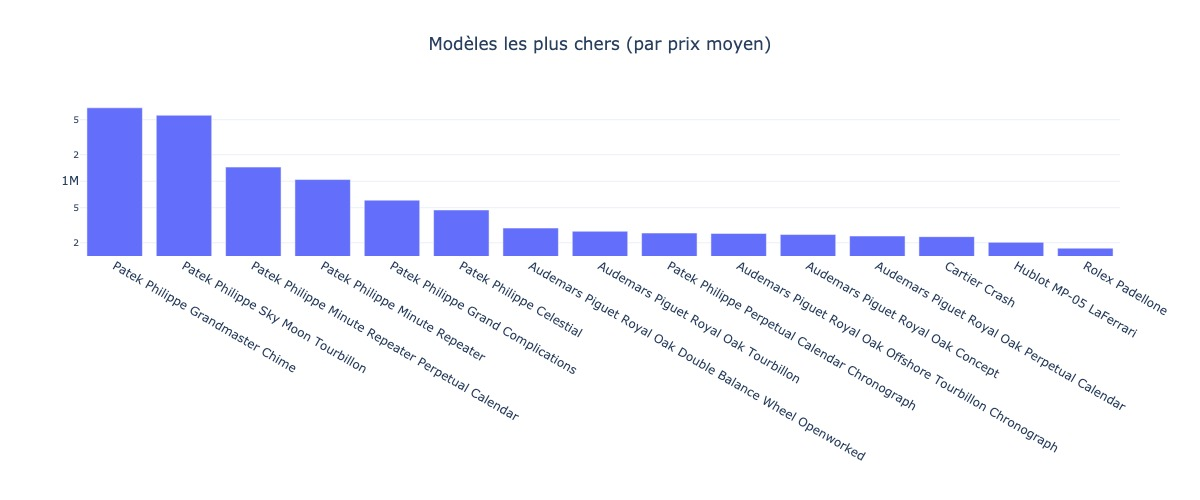
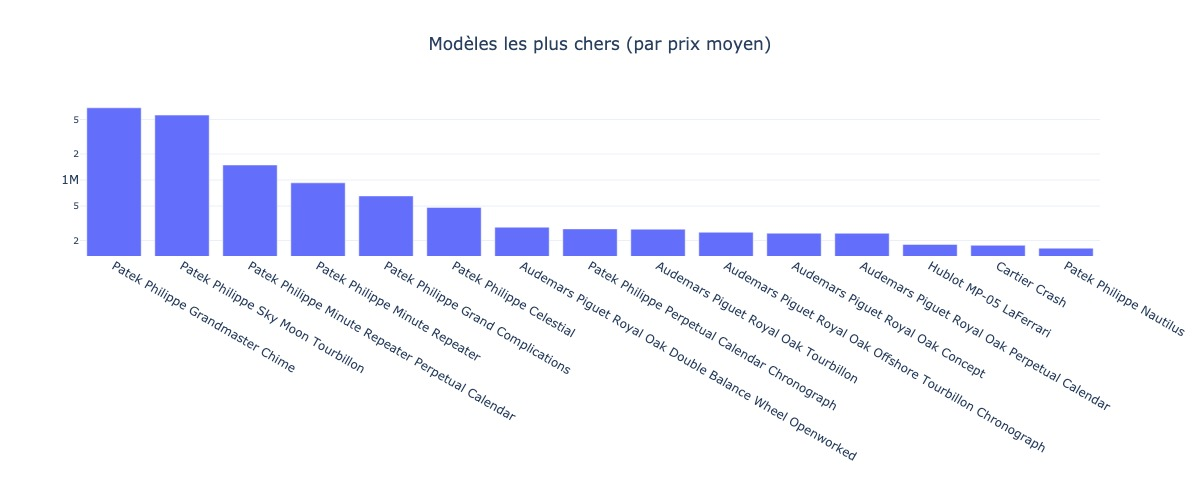
rm analysis from dayly batch

diff --git a/single_analysis.py b/single_analysis.py
@@ -30,10 +30,10 @@ f.write_image("./out/count_per_name.jpeg", format="jpeg")
 
 
 
-price_per_model = data[["name", "prix"]].groupby(by="name").mean().sort_values("prix", ascending=False)
+price_per_model = data[["name", "prix", "brand"]].groupby(by="name").agg({"prix": "mean", "brand": "last"}).sort_values("prix", ascending=False)
 f = px.bar(
     x=price_per_model.index[0:15], y=price_per_model["prix"].values[0:15], template=theme,
-    title="Modèles les plus chers (par prix moyen)",
+    title="Modèles les plus chers (par prix moyen)"
 ).update_layout(
     xaxis_title="", yaxis_title="", height=500, width=1200, title_x=0.5, 
 ).update_yaxes(type="log")
